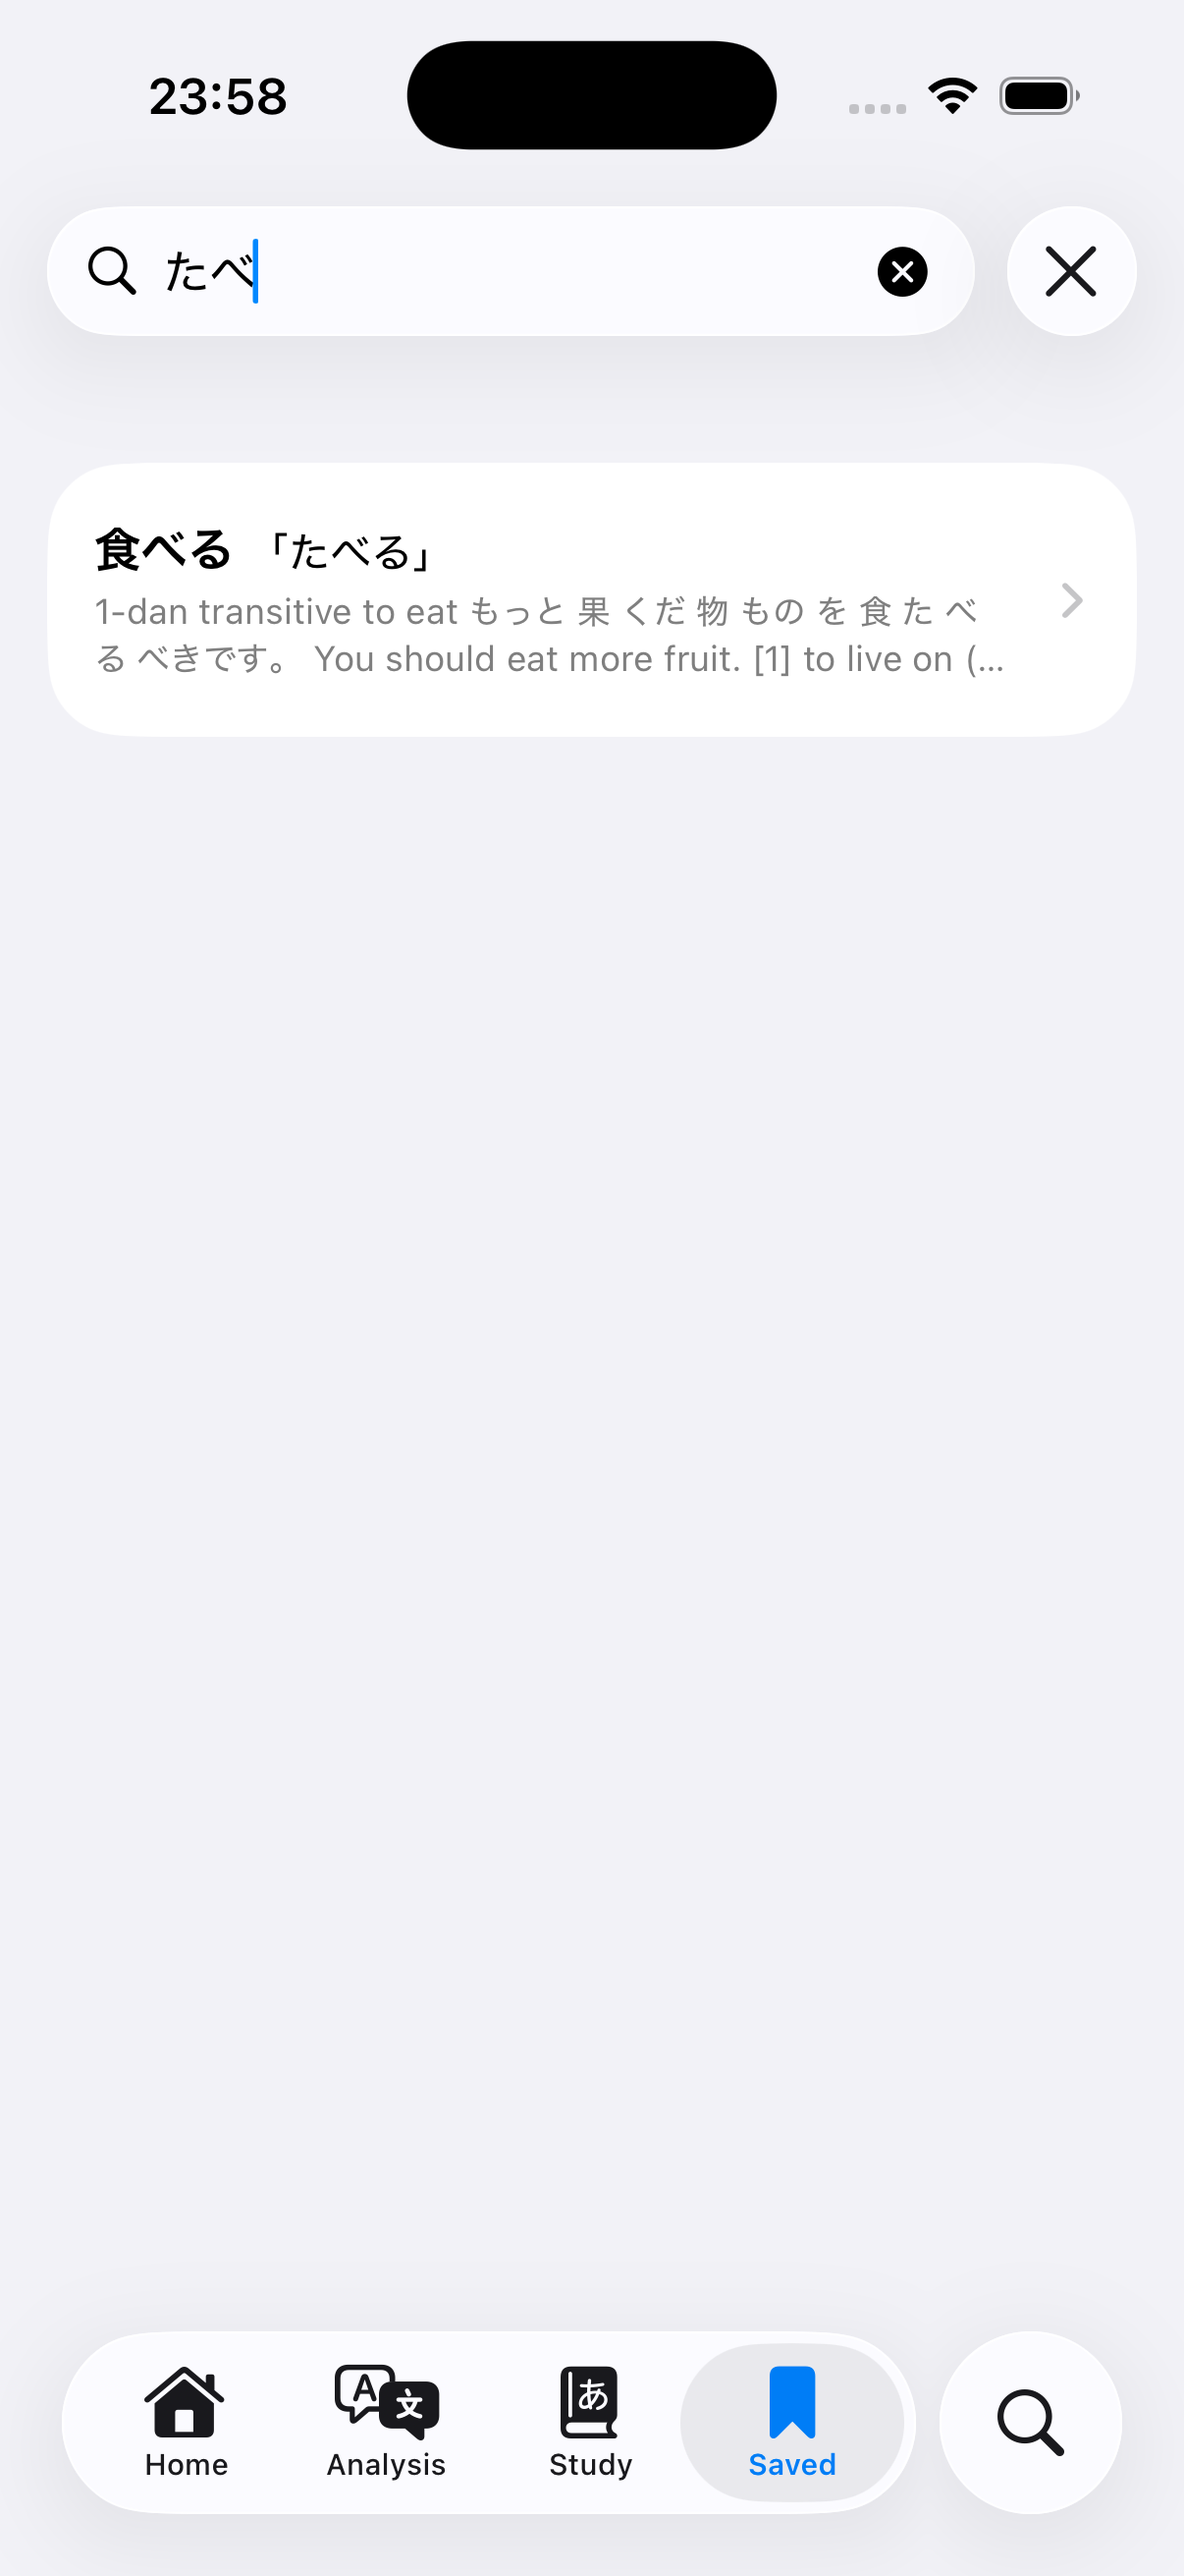
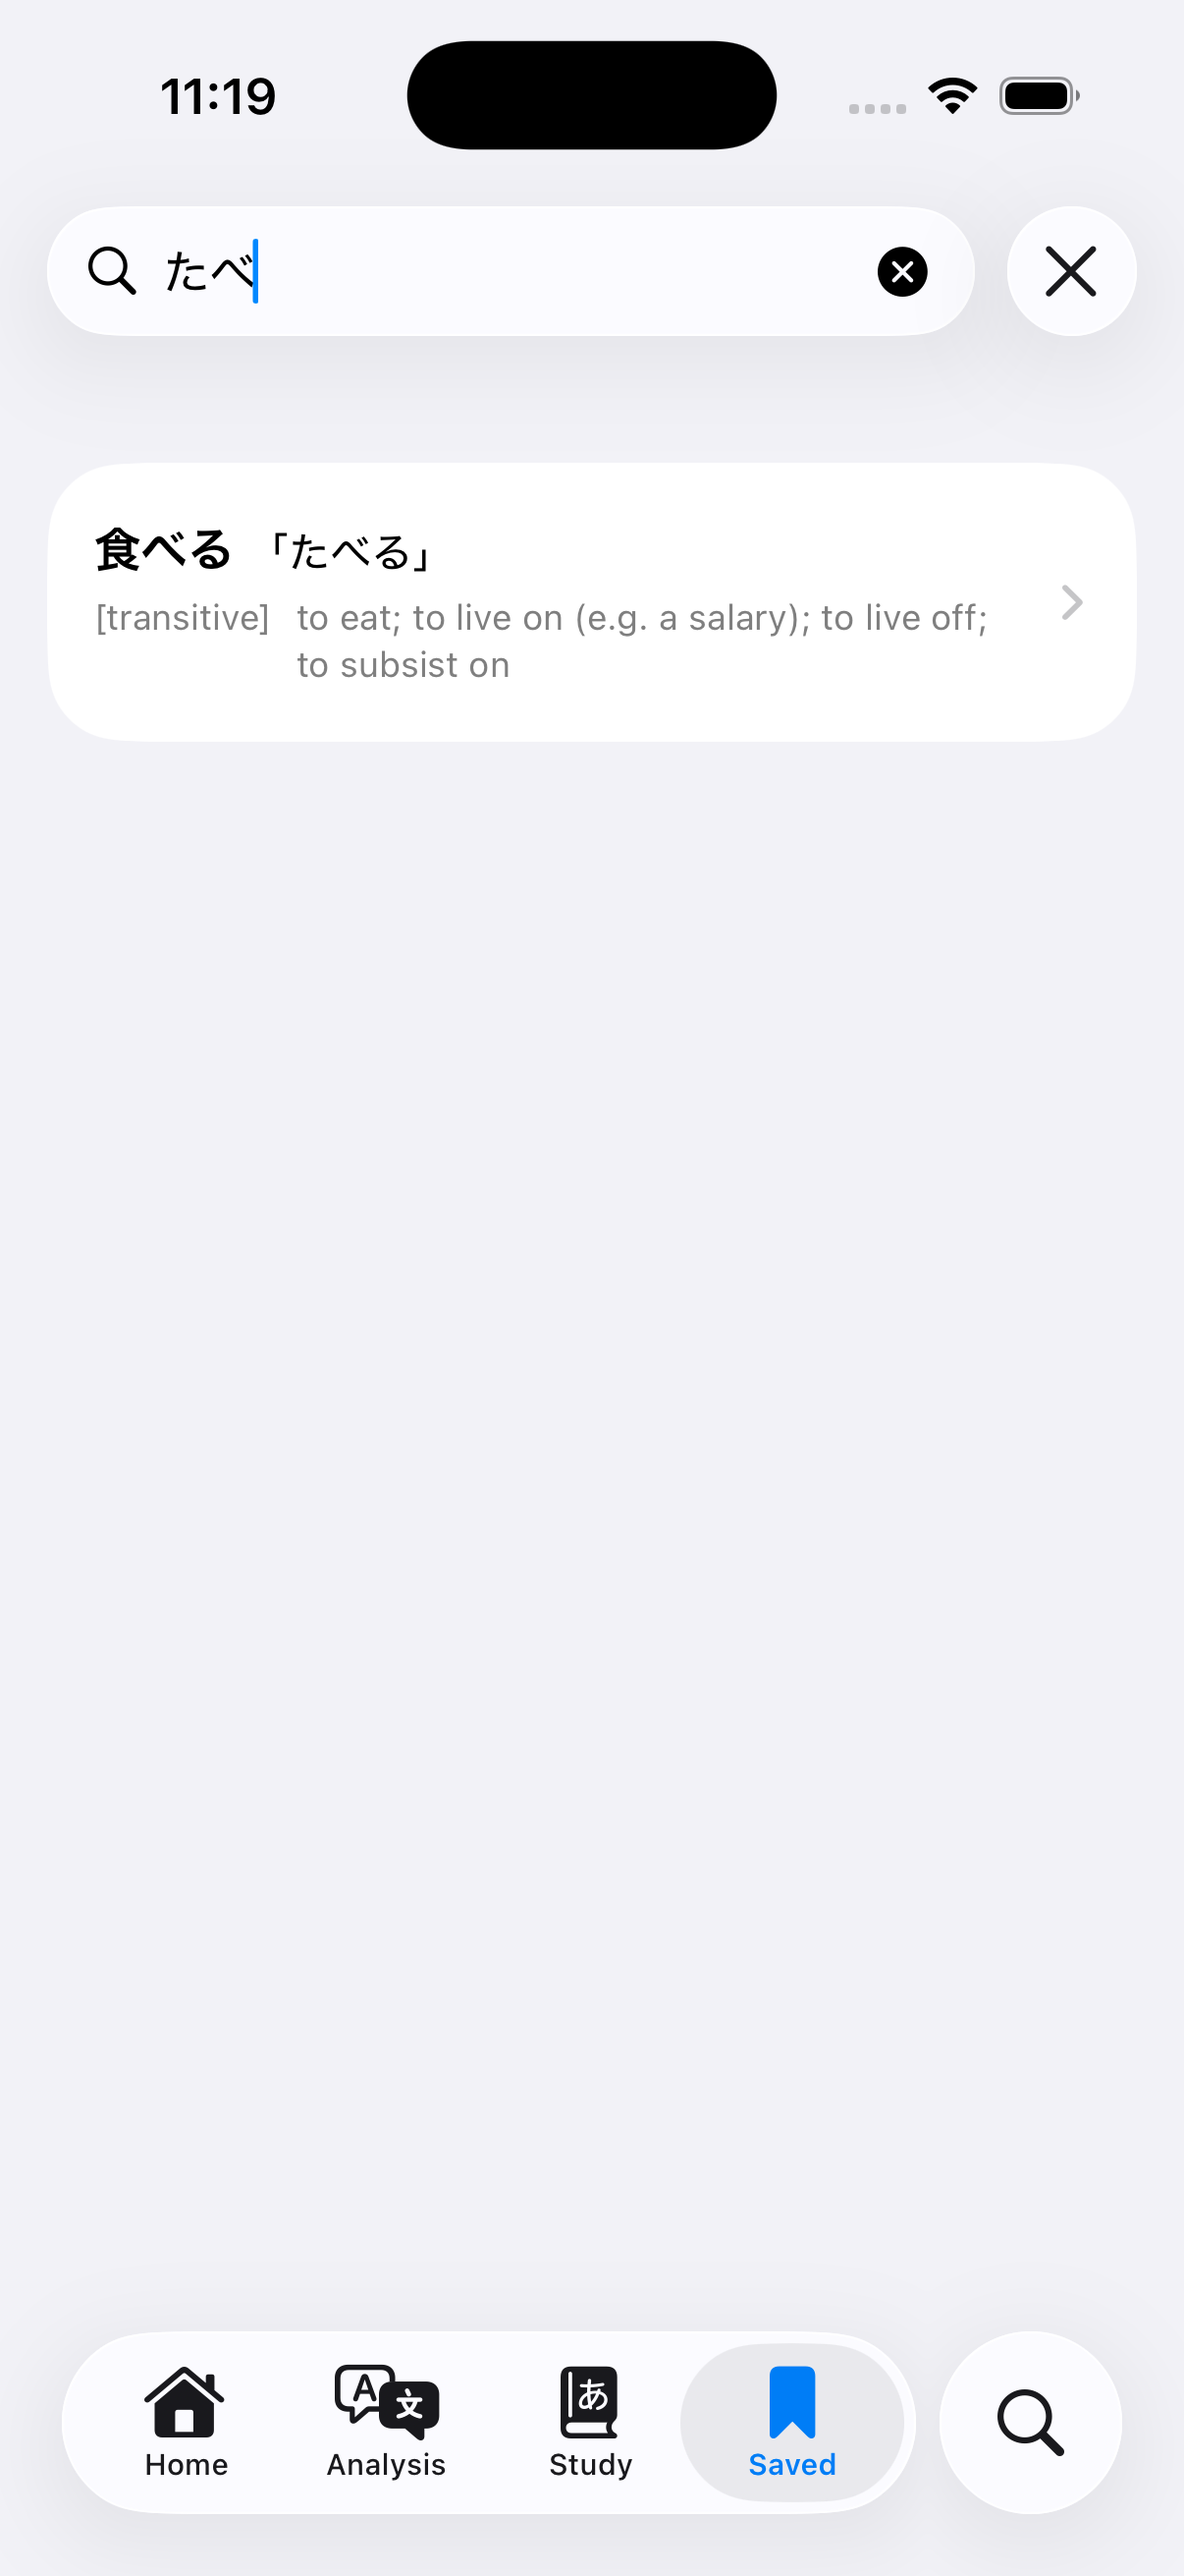
feat: add pytest to verify the pipeline of DB

Changed region(s): [[0.092, 0.2162, 0.8284, 0.278], [0.1227, 0.0309, 0.2454, 0.0618]]

diff --git a/KotobaLab/App/KotobaLabApp.swift b/KotobaLab/App/KotobaLabApp.swift
@@ -15,7 +15,7 @@ struct KotobaLabApp: App {
     init () {
         do {
             let databaseManager = try DatabaseManager()
-            let dictionaryRepository = SQLiteDictionaryRepository(dbQueue: databaseManager.dbQueue)
+            let dictionaryRepository = SQLiteDictionaryRepository(databaseManager: databaseManager)
             
             let dependencies = AppDependencies(
                 dictionaryRepository: dictionaryRepository,

diff --git a/Tools/DictionaryBuilder/tests/test_parse.py b/Tools/DictionaryBuilder/tests/test_parse.py
@@ -1,0 +1,122 @@
+#
+#  test_parse.py
+#  KotobaLab
+#
+#  Created by 椎名アヤネ on 2026/05/20.
+#
+
+from pipeline.parse import parse_entry
+
+
+def test_parse_entry_happy_path():
+    # Arrange: 最小限の entry を組み立てる
+    entry = _make_entry(_make_content(pos_values=["1-dan"], glossaries=[["to eat"]]))
+
+    # Act: parse_entry を呼ぶ
+    result = parse_entry(entry)
+
+    # Assert: 各フィールドが期待通りか確認
+    assert result.term == "食べる"
+    assert result.reading == "たべる"
+    assert result.sequence == 1358280
+    assert result.part_of_speech == "1-dan"
+    assert result.glosses == ["to eat"]
+    assert result.forms == []
+
+
+def test_parse_entry_multiple_pos_keeps_last():
+    entry = _make_entry(
+        _make_content(pos_values=["1-dan", "transitive"], glossaries=[["to eat"]])
+    )
+
+    result = parse_entry(entry)
+
+    assert result.term == "食べる"
+    assert result.reading == "たべる"
+    assert result.sequence == 1358280
+    assert result.part_of_speech == "transitive"
+    assert result.glosses == ["to eat"]
+    assert result.forms == []
+
+
+def test_parse_entry_multiple_glossaries_are_concatenated():
+    entry = _make_entry(
+        _make_content(
+            pos_values=["1-dan", "transitive"], glossaries=[["to eat"], ["to live on"]]
+        )
+    )
+
+    result = parse_entry(entry)
+
+    assert result.term == "食べる"
+    assert result.reading == "たべる"
+    assert result.sequence == 1358280
+    assert result.part_of_speech == "transitive"
+    assert result.glosses == ["to eat", "to live on"]
+    assert result.forms == []
+
+
+def _make_entry(content: list) -> list:
+    """Build a Yomitan-style entry with given content tree."""
+    return [
+        "食べる",  # term
+        "たべる",  # reading
+        "★",  # definition tags (unused)
+        "v1",  # rules (unused)
+        200,  # score (unused)
+        content,  # content
+        1358280,  # sequence
+        "",  # term tags (unused)
+    ]
+
+
+def _make_content(pos_values: list[str], glossaries: list[list[str]]) -> list[dict]:
+    """
+    Build a structured-content tree with given POS spans and glossary uls.
+
+    Note:
+        Each glossary ul currently contains exactly 1 li (use ul[0]).
+        Extend this helper if testing multi-li glossaries.
+
+    Args:
+        pos_values: POS strings, one per <span part-of-speech-info>
+        glossaries: list of glossary uls, each ul is a list of gloss strings
+    """
+
+    pos_spans = [
+        {
+            "tag": "span",
+            "data": {"content": "part-of-speech-info"},
+            "content": pos,
+        }
+        for pos in pos_values
+    ]
+
+    gloss_uls = [
+        {
+            "tag": "ul",
+            "data": {"content": "glossary"},
+            "content": {"tag": "li", "content": ul[0]},
+        }
+        for ul in glossaries
+    ]
+
+    return [
+        {
+            "type": "structured-content",
+            "content": [
+                {
+                    "tag": "div",
+                    "data": {"content": "sense-group"},
+                    "content": [
+                        *pos_spans,
+                        {
+                            "tag": "div",
+                            "data": {"content": "sense"},
+                            "content": gloss_uls,
+                        },
+                    ],
+                }
+            ],
+        }
+    ]

diff --git a/Tools/DictionaryBuilder/debug/find_entry.py b/Tools/DictionaryBuilder/debug/find_entry.py
@@ -1,0 +1,40 @@
+#
+#  find_entry.py
+#  KotobaLab
+#
+#  Created by 椎名アヤネ on 2026/05/20.
+#
+
+import json
+import sys
+from pathlib import Path
+from pprint import pprint
+
+# CLI: uv run debug/find_entry.py <dataset_dir> <term>
+dataset_dir = Path(sys.argv[1])
+target_term = sys.argv[2]
+
+bank_files = sorted(dataset_dir.glob("term_bank_*.json"))
+print(f"Searching {len(bank_files)} bank files for term: {target_term!r}")
+
+found = []
+for bank_file in bank_files:
+    with bank_file.open(encoding="utf-8") as f:
+        entries = json.load(f)
+    for i, entry in enumerate(entries):
+        if entry[0] == target_term:
+            found.append((bank_file.name, i, entry))
+
+print(f"\nFound {len(found)} matches\n")
+
+for bank_name, idx, entry in found:
+    print(f"--- {bank_name} [#{idx}] ---")
+    print(f"term:    {entry[0]}")
+    print(f"reading: {entry[1]}")
+    print(f"sequence: {entry[6]}")
+    print()
+
+# 詳細を見たい場合（最初の 1 件だけ）
+if found and "--verbose" in sys.argv:
+    print("\n========== FIRST MATCH FULL ENTRY ==========\n")
+    pprint(found[0][2])

diff --git a/Tools/DictionaryBuilder/tests/conftest.py b/Tools/DictionaryBuilder/tests/conftest.py
@@ -1,0 +1,15 @@
+#
+#  conftest.py
+#  KotobaLab
+#
+#  Created by 椎名アヤネ on 2026/05/17.
+#
+
+import pytest
+
+
+@pytest.fixture
+def make_entry():
+    def _make(content):
+        return ["食べる", "たべる", "★", "v1", 200, content, 1358280, ""]
+    return _make

diff --git a/Tools/DictionaryBuilder/tests/__init__.py b/Tools/DictionaryBuilder/tests/__init__.py
@@ -1,0 +1,7 @@
+#
+#  __init__.py
+#  KotobaLab
+#
+#  Created by 椎名アヤネ on 2026/05/17.
+#
+
